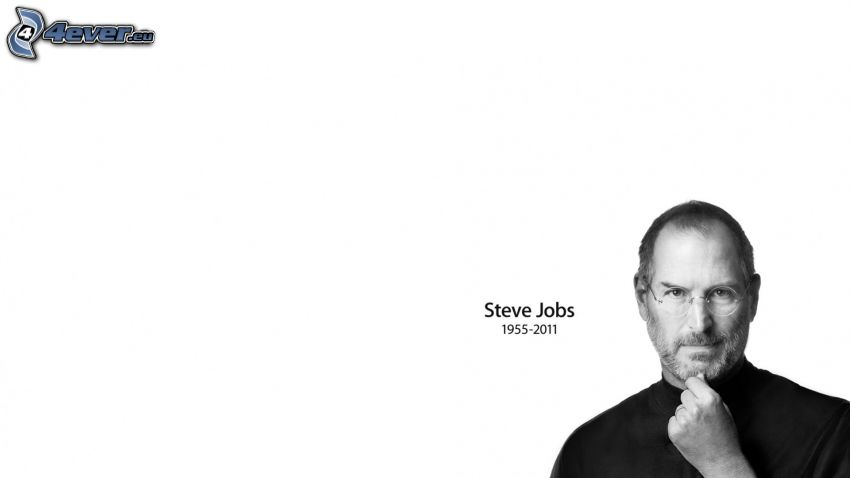
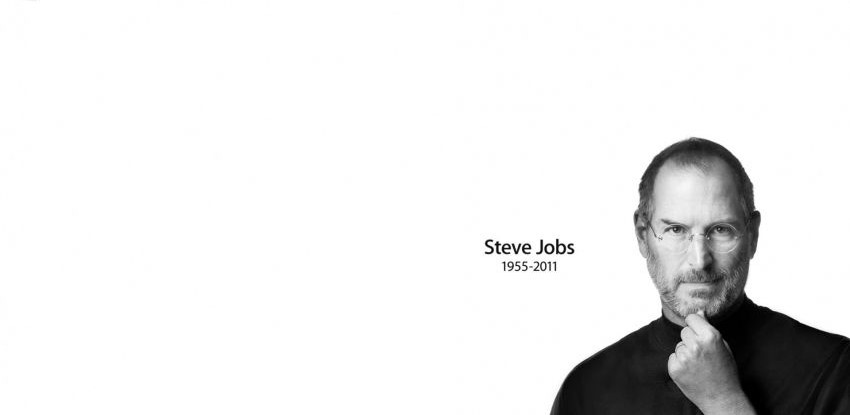
fix: tribute fixed

diff --git a/index.html b/index.html
@@ -8,30 +8,67 @@
     <link rel="stylesheet" href="./output.css">
     <link rel="shortcut icon" href="./favicon.ico" type="image/x-icon">
 </head>
-<body>
-    <main class="w-full h-full bg-black">
+
+<body class="flex items-center justify-center">
+    <main class="xxs:w-full lg:w-[75%] h-full bg-black">
         <div class="text-center h-[150px]">
             <h1 class="text-[50px] text-white font-semibold">Steve Jobs</h1>
             <p class="text-[25px] text-white">1955-2011</p>
         </div>
         <div class="flex justify-center">
-            <p><img class="h-[450px] w-[450]" src="./image/steve.jpg" alt="image of Steve Jobs"></p>
+            <p><img class="h-[450px] w-[750px]" src="./image/steve-jobs-163622.jpg" alt="image of Steve Jobs"></p>
         </div>
         <div class="text-white p-8">
             <h1 class="text-[50px] font-semibold mb-5">Biography</h1>
             <p class="">Steven Paul Jobs was an American business magnate, inventor, and investor. He was the
                 co-founder, chairman, and CEO of Apple; the chairman and majority shareholder of Pixar; a member of The
                 Walt Disney Company's board of directors following its acquisition of Pixar; and the founder, chairman,
-                and CEO of NeXT.
-            <ul>
-                <li>Born: 24 February 1955, San Francisco, California, United States</li>
-                <li>Died: 5 October 2011, Palo Alto, California, United States</li>
-                <li>Children: Lisa Brennan-Jobs, Eve Jobs, Reed Jobs, Erin Siena Jobs</li>
-                <li>Spouse: Laurene Powell Jobs (m. 1991 - 2011)</li>
-                <li>Parents: Abdulfattah John Jandali, Joanne Schieble Simpson, Paul Jobs, Clara Jobs</li>
-                <li>Height: 1.88 m</li>
-                <li>Organizations founded: Apple, Pixar, NeXT, Apple Store</li>
-            </ul>
+                and CEO of NeXT. He was a pioneer of the personal computer revolution of the 1970s and 1980s, along with
+                his early business partner and fellow Apple co-founder Steve Wozniak.
+            <div>
+                <ul class="list-disc space-y-5 px-10">
+                    <li>Jobs was born 24 February 1955 in San Francisco, California, United States to a Syrian father
+                        and German-American mother. He was adopted shortly after his birth. Jobs attended Reed College
+                        in 1972 before withdrawing that same year. In 1974, he traveled through India seeking
+                        enlightenment before later studying Zen Buddhism. He and Wozniak co-founded Apple in 1976 to
+                        sell Wozniak's Apple I personal computer. Together the duo gained fame and wealth a year later
+                        with production and sale of the Apple II, one of the first highly successful mass-produced
+                        microcomputers.</li>
+                    <li>Jobs's design aesthetic was influenced by philosophies of Zen and Buddhism. In India, he
+                        experienced Buddhism while on his seven-month spiritual journey,[228] and his sense of intuition
+                        was influenced by the spiritual people with whom he studied.[228] He also learned from many
+                        references and sources, such as modernist architectural style of Joseph Eichler,[citation
+                        needed] and the industrial designs of Richard Sapper[229] and Dieter Rams.[citation needed]</li>
+                    <li>In 1989, Jobs first met his future wife, Laurene Powell, when he gave a lecture at the Stanford
+                        Graduate School of Business, where she was a student. Soon after the event, he stated that
+                        Laurene "was right there in the front row in the lecture hall, and I couldn't take my eyes off
+                        of her ... kept losing my train of thought, and started feeling a little giddy".[8][page needed]
+                        After the lecture, he met her in the parking lot and invited her out to dinner. From that point
+                        forward, they were together, with a few minor exceptions, for the rest of his life.</li>
+                    <li>Chrisann Brennan notes that after Jobs was forced out of Apple, "he apologized many times over
+                        for his behavior" towards her and Lisa. She said Jobs "said that he never took responsibility
+                        when he should have, and that he was sorry".[275] By this time, Jobs had developed a strong
+                        relationship with Lisa and when she was nine, Jobs had her name on her birth certificate changed
+                        from "Lisa Brennan" to "Lisa Brennan-Jobs".[7] Jobs and Brennan developed a working relationship
+                        to co-parent Lisa, a change which Brennan credits to the influence of his newly found biological
+                        sister, Mona Simpson, who worked to repair the relationship between Lisa and Jobs.[7] Jobs had
+                        found Mona after first finding his birth mother, Joanne Schieble Simpson, shortly after he left
+                        Apple.</li>
+                    <li>In October 2003, Jobs was diagnosed with cancer. In mid-2004, he announced to his employees that
+                        he had a cancerous tumor in his pancreas.[157] The prognosis for pancreatic cancer is usually
+                        very poor;[158] Jobs stated that he had a rare, much less aggressive type, known as islet cell
+                        neuroendocrine tumor.
+                        Jobs resisted his doctors' recommendations for medical intervention for nine months,[159] in
+                        favor of alternative medicine. According to Harvard researcher Ramzi Amri, this "led to an
+                        unnecessarily early death".</li>
+                    <li>Jobs died at his Palo Alto, California, home around 3 p.m. (PDT) on October 5, 2011, due to
+                        complications from a relapse of his previously treated islet-cell pancreatic neuroendocrine
+                        tumor,[60][203][204] which resulted in respiratory arrest.[205] He had lost consciousness the
+                        day before and died with his wife, children, and sisters at his side.</li>
+                </ul>
+            </div>
+            To get more information about Steve Jobs visit <a href="https://en.wikipedia.org/wiki/Steve_Jobs"
+                class="text-gray-500 hover:text-blue-600 hover:underline target:blank">wikipedia</a>
             </p>
         </div>
     </main>

diff --git a/output.css b/output.css
@@ -538,6 +538,18 @@ video {
   width: 100%;
 }
 
+@media (min-width: 300px) {
+  .container {
+    max-width: 300px;
+  }
+}
+
+@media (min-width: 400px) {
+  .container {
+    max-width: 400px;
+  }
+}
+
 @media (min-width: 640px) {
   .container {
     max-width: 640px;
@@ -794,12 +806,8 @@ video {
   height: 100%;
 }
 
-.w-\[450\] {
-  width: 450;
-}
-
-.w-full {
-  width: 100%;
+.w-\[750px\] {
+  width: 750px;
 }
 
 .flex-shrink {
@@ -1003,6 +1011,10 @@ video {
 
 .list-outside {
   list-style-position: outside;
+}
+
+.list-disc {
+  list-style-type: disc;
 }
 
 .appearance-none {
@@ -1318,6 +1330,12 @@ video {
   --tw-space-x-reverse: 0;
   margin-right: calc(0.5rem * var(--tw-space-x-reverse));
   margin-left: calc(0.5rem * calc(1 - var(--tw-space-x-reverse)));
+}
+
+.space-y-5 > :not([hidden]) ~ :not([hidden]) {
+  --tw-space-y-reverse: 0;
+  margin-top: calc(1.25rem * calc(1 - var(--tw-space-y-reverse)));
+  margin-bottom: calc(1.25rem * var(--tw-space-y-reverse));
 }
 
 .space-y-reverse > :not([hidden]) ~ :not([hidden]) {
@@ -1862,6 +1880,11 @@ video {
   padding: 2rem;
 }
 
+.px-10 {
+  padding-left: 2.5rem;
+  padding-right: 2.5rem;
+}
+
 .text-left {
   text-align: left;
 }
@@ -2009,6 +2032,11 @@ video {
 .text-blue-500 {
   --tw-text-opacity: 1;
   color: rgb(59 130 246 / var(--tw-text-opacity));
+}
+
+.text-gray-500 {
+  --tw-text-opacity: 1;
+  color: rgb(107 114 128 / var(--tw-text-opacity));
 }
 
 .text-white {
@@ -2338,6 +2366,18 @@ video {
     width: 100%;
   }
 
+  @media (min-width: 300px) {
+    .sm\:container {
+      max-width: 300px;
+    }
+  }
+
+  @media (min-width: 400px) {
+    .sm\:container {
+      max-width: 400px;
+    }
+  }
+
   @media (min-width: 640px) {
     .sm\:container {
       max-width: 640px;
@@ -2373,6 +2413,15 @@ video {
   font-weight: 700;
 }
 
+.hover\:text-blue-600:hover {
+  --tw-text-opacity: 1;
+  color: rgb(37 99 235 / var(--tw-text-opacity));
+}
+
+.hover\:underline:hover {
+  text-decoration-line: underline;
+}
+
 .before\:hover\:text-center:hover::before {
   content: var(--tw-content);
   text-align: center;
@@ -2391,9 +2440,21 @@ video {
   text-align: center;
 }
 
+@media (min-width: 300px) {
+  .xxs\:w-full {
+    width: 100%;
+  }
+}
+
 @media (min-width: 640px) {
   .sm\:underline {
     text-decoration-line: underline;
+  }
+}
+
+@media (min-width: 1024px) {
+  .lg\:w-\[75\%\] {
+    width: 75%;
   }
 }
 

diff --git a/tailwind.config.js b/tailwind.config.js
@@ -2,7 +2,27 @@
 module.exports = {
   content: ["./**/*.{html,js}"],
   theme: {
-    
+    screens: {
+      "xxs": "300px",
+      "xs": "400px",
+      // => @media (min-width: 420px) { ... }
+      //from 420px upward
+
+      'sm': '640px',
+      // => @media (min-width: 640px) { ... }
+
+      'md': '768px',
+      // => @media (min-width: 768px) { ... }
+
+      'lg': '1024px',
+      // => @media (min-width: 1024px) { ... }
+
+      'xl': '1280px',
+      // => @media (min-width: 1280px) { ... }
+
+      '2xl': '1536px',
+      // => @media (min-width: 1536px) { ... }
+    },
     extend: {},
   },
   plugins: [],
